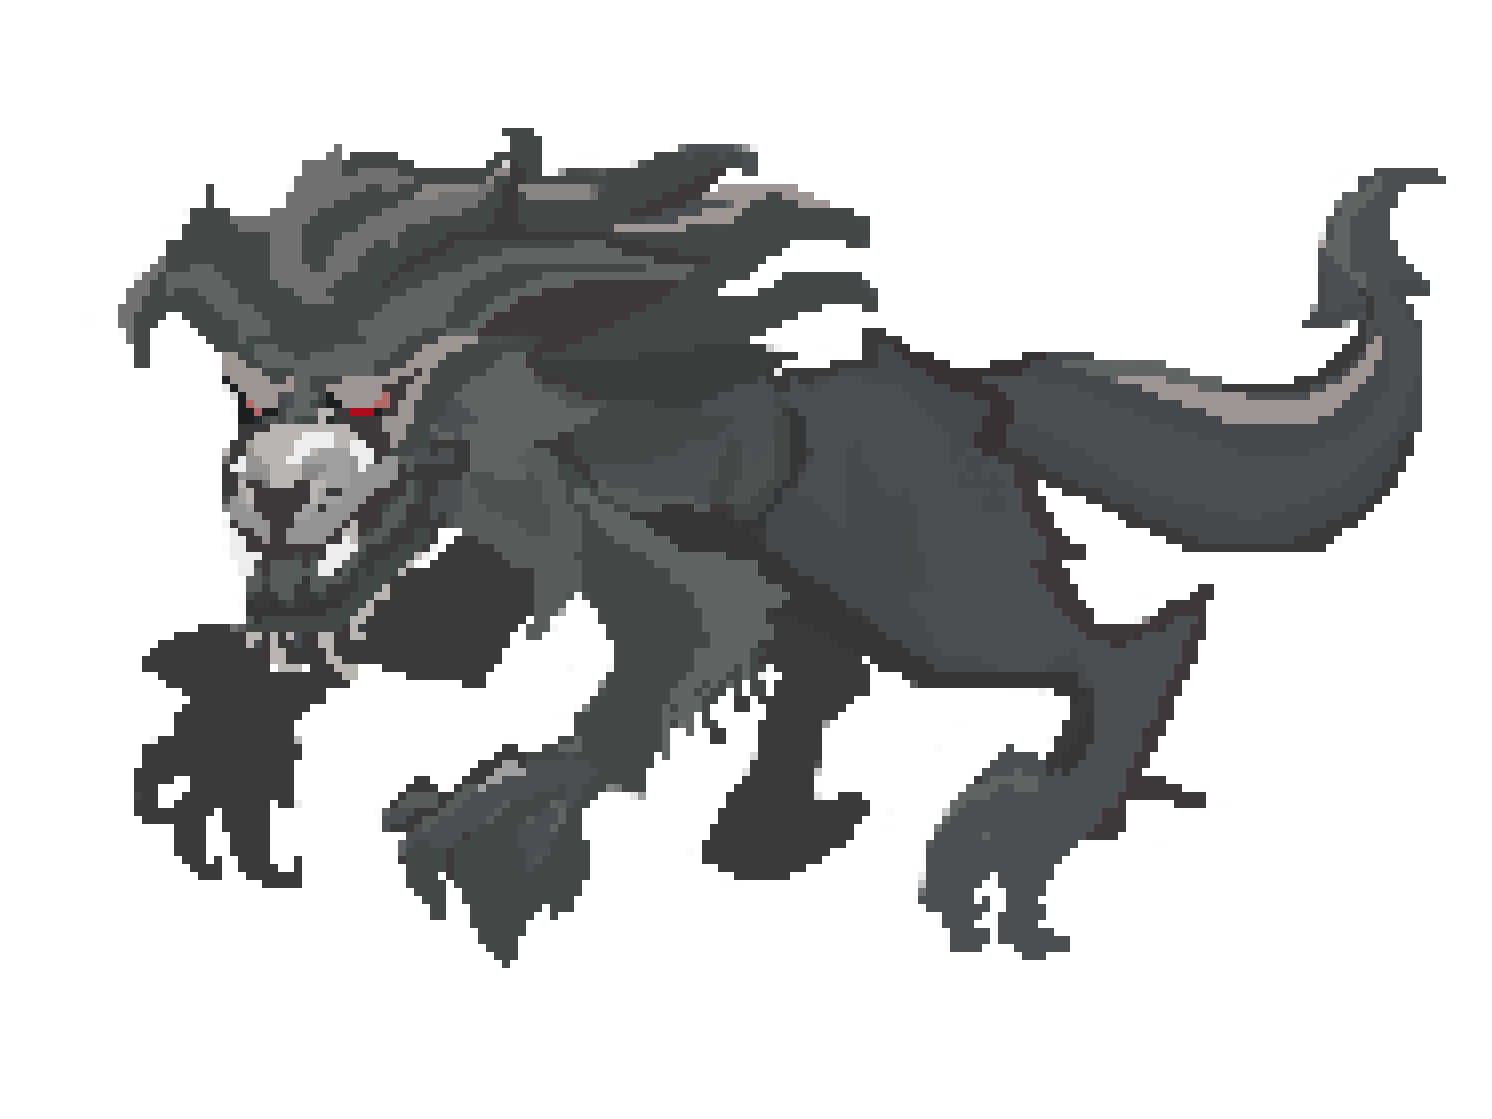
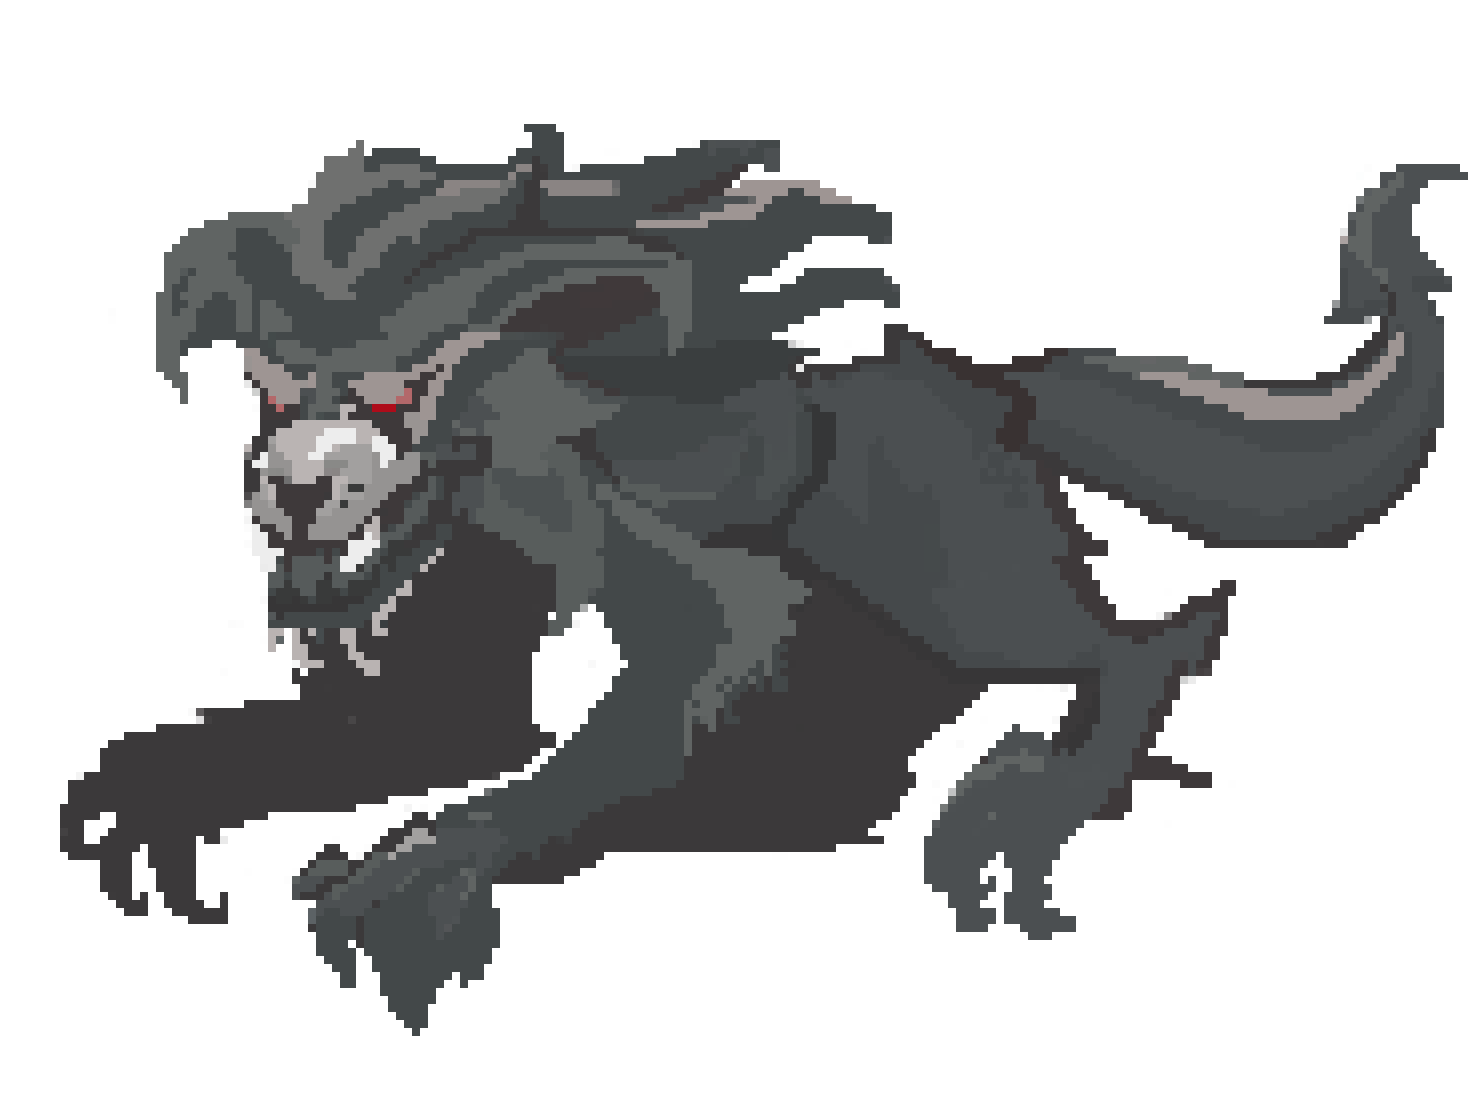
added new animations, fixed cleric reviving teammates on ability, added ui for revive, revive character not longer makes players stuck"

diff --git a/client/Window.cpp b/client/Window.cpp
@@ -613,6 +613,31 @@ void Window::displayCallback(GLFWwindow* window)
 			glClear(GL_DEPTH_BUFFER_BIT);
 			cursor->draw();
 		}
+		
+
+		// Checks if the hunter is near another dead hunter
+		if(client->getId() != 3 && clientChar->getState() != spectating) {
+			for(int i = 0; i < PLAYER_NUM - 1; i++) {
+				if(i == client->getId()) continue;
+
+				// If the other player's hp is <= 0, we can revive them.
+				if (chars[i]->getHp() <= 0 && glm::distance(clientChar->pos, chars[i]->pos) <= REVIVE_DISTANCE) {
+					time_t currTime = clock();
+					float deathTimeDiff = (float) (currTime - chars[i]->getDeathTime()) / CLOCKS_PER_SEC * 1000;
+					
+					// Revivable
+					if(deathTimeDiff > REVIVE_TIME_INTERVAL) {
+						std::string revivalText = "Press F to revive Player " + std::to_string(i);
+						guiManager->drawCenterText(revivalText, width, height);
+
+					// not revivable
+					} else {
+						std::string revivalText = "Wait " + std::to_string(deathTimeDiff / 1000) + " before reviving Player " + std::to_string(i);
+						guiManager->drawCenterText(revivalText, width, height);
+					}
+				}
+			}
+		}
 
 	} 
 
@@ -870,21 +895,25 @@ void Window::handleRoleClaim(GameUpdate update) {
 		case FIGHTER:
 			chars[update.id] = playerTypeToCharacterMap[FIGHTER];
 			chars[update.id]->moveTo(glm::vec3(SPAWN_POSITIONS[update.id][0], 2.f, SPAWN_POSITIONS[update.id][1]));
+			chars[update.id]->setHp(FIGHTER_MAX_HP);
 			break;
 
 		case MAGE:
 			chars[update.id] = playerTypeToCharacterMap[MAGE];
 			chars[update.id]->moveTo(glm::vec3(SPAWN_POSITIONS[update.id][0], 1.5f, SPAWN_POSITIONS[update.id][1]));
+			chars[update.id]->setHp(MAGE_MAX_HP);
 			break;
 
 		case CLERIC:
 			chars[update.id] = playerTypeToCharacterMap[CLERIC];
 			chars[update.id]->moveTo(glm::vec3(SPAWN_POSITIONS[update.id][0], 2.f, SPAWN_POSITIONS[update.id][1]));
+			chars[update.id]->setHp(CLERIC_MAX_HP);
 			break;
 
 		case ROGUE:
 			chars[update.id] = playerTypeToCharacterMap[ROGUE];
 			chars[update.id]->moveTo(glm::vec3(SPAWN_POSITIONS[update.id][0], 2.f, SPAWN_POSITIONS[update.id][1]));
+			chars[update.id]->setHp(ROGUE_MAX_HP);
 			break;
 	}
 
@@ -916,7 +945,11 @@ void Window::handleUpdate(GameUpdate update) {
 				guiManager->healthBar->decrementHp(update.damageTaken);
 				guiManager->healthBar->flashHealthBar();
 			}
-			chars[update.id]->flashDamage();
+			chars[update.id]->decrementHp(update.damageTaken);
+
+			if(chars[update.id]->getHp() >= 0) {
+				chars[update.id]->flashDamage();
+			}
 
 			auto now = std::chrono::steady_clock::now();
     		std::chrono::duration<float> duration = now - lastCombatMusicPlayTime;
@@ -941,6 +974,7 @@ void Window::handleUpdate(GameUpdate update) {
 				guiManager->healthBar->incrementHp(update.healAmount);
 				audioProgram->playAudioWithoutLooping(HEALTH_PICKUP_SOUND);
 			}
+			chars[update.id]->incrementHp(update.healAmount);
 			break;
 		case SAFE_REGION_UPDATE:
 			guiManager->miniMap->safeRegionX = update.playerPos.x;
@@ -1027,6 +1061,10 @@ void Window::handleUpdate(GameUpdate update) {
 		case PLAYER_REVIVE:
 			printf("process player's revival signal duolan");
 			chars[update.id]->setTransparentAlpha(1.f);
+			chars[update.id]->incrementHp(update.healAmount);
+			if(update.id == client->getId()) {
+				guiManager->healthBar->incrementHp(update.healAmount);
+			}
 			break;
 		case GAME_STARTED:
 			Window::gameStarted = true;
@@ -1086,6 +1124,7 @@ void Window::handleUpdate(GameUpdate update) {
 			if(update.id == client->getId()) {
 				guiManager->healthBar->incrementHp(update.healAmount);
 			}
+			chars[update.id]->incrementHp(update.healAmount);
             removeObj(update.objectiveID);
             break;
         case EVO_OBJECTIVE_TAKEN:

diff --git a/common/game/GamePlayer.cpp b/common/game/GamePlayer.cpp
@@ -443,6 +443,47 @@ void GamePlayer::interact(Game* game) {
     printf("Overridden Method failed.\n");
 }
 
+PlayerPosition GamePlayer::bfsSearchNonCollidingPosition(Game* game) {
+    PlayerPosition newPosition = this->position;
+    std::queue<GridPosition> positionQueue;
+    std::vector<GridPosition> used;
+    while(this->isCollidingObstacle(game, newPosition) || this->isCollidingPlayer(game, newPosition)) {
+        // Gridposition used instead of player position because floats might mess up the calculations
+        GridPosition moveRight = {(int) (newPosition.x + newPosition.width), (int) (newPosition.y)};
+        GridPosition moveLeft = {(int) (newPosition.x - newPosition.width), (int) (newPosition.y)};
+        GridPosition moveUp = {(int) (newPosition.x), (int) (newPosition.y - newPosition.height)};
+        GridPosition moveDown = {(int) (newPosition.x), (int) (newPosition.y - newPosition.height)};
+        if(std::find(used.begin(), used.end(), moveRight) == used.end()) {
+            positionQueue.push(moveRight);
+            used.push_back(moveRight);
+        }
+        if(std::find(used.begin(), used.end(), moveRight) == used.end()) {
+            positionQueue.push(moveRight);
+            used.push_back(moveRight);
+        }
+        if(std::find(used.begin(), used.end(), moveLeft) == used.end()) {
+            positionQueue.push(moveLeft);
+            used.push_back(moveLeft);
+        }
+        if(std::find(used.begin(), used.end(), moveUp) == used.end()) {
+            positionQueue.push(moveUp);
+            used.push_back(moveUp);
+        }
+        if(std::find(used.begin(), used.end(), moveDown) == used.end()) {
+            positionQueue.push(moveDown);
+            used.push_back(moveDown);
+        }
+        if(!positionQueue.empty()) {
+            GridPosition position = positionQueue.front();
+            newPosition.x = position.x;
+            newPosition.y = position.y;
+            positionQueue.pop();
+        }
+        printf("%d, %d\n", position.x, position.y);
+    }
+    return newPosition;
+}
+
 // Will revive a dead hunter
 void GamePlayer::revive(Game* game) {
 
@@ -471,6 +512,23 @@ void GamePlayer::revive(Game* game) {
                 if (!canAttack(game->players[i])) {
                     int maxHp = game->players[i]->getMaxHp();
                     game->players[i]->hpIncrement(maxHp/2);
+
+                    // if the current player is colliding with the revived player, just move it elsewhere.
+                    if(this->isCollidingPlayer(game, this->position)) {
+                        PlayerPosition newPosition = bfsSearchNonCollidingPosition(game);
+                        
+                        // push update onto queue for clients to know that a player has been unstuck
+                        GameUpdate gameUpdate;
+                        gameUpdate.id = this->id;
+                        gameUpdate.updateType = PLAYER_MOVE;
+                        gameUpdate.floatDeltaX = newPosition.x - position.x;
+                        gameUpdate.floatDeltaY = newPosition.y - position.y;
+                        gameUpdate.direction = getFaceDirection();
+                        game->addUpdate(gameUpdate);
+
+                        // Move to the new position
+                        position = newPosition;
+                    }
 
                     // queue this update to be sent to other players
                     GameUpdate gameUpdate;

diff --git a/common/game/Monster.cpp b/common/game/Monster.cpp
@@ -155,14 +155,19 @@ void Monster::updateEvo(Game* game, float evoLevel) {
     // For now update the attack damage of the monster, maybe speed another time?
     if (evoLevel >= MONSTER_FIFTH_STAGE_THRESHOLD) {
         setAttackDamage(MONSTER_ATTACK_DAMAGE + 5);
+        setMaxSpeed(MONSTER_MAX_SPEED + 0.25);
     } else if (evoLevel >= MONSTER_FOURTH_STAGE_THRESHOLD) {
         setAttackDamage(MONSTER_ATTACK_DAMAGE + 4);
+        setMaxSpeed(MONSTER_MAX_SPEED + 0.2);
     } else if (evoLevel >= MONSTER_THIRD_STAGE_THRESHOLD) {
         setAttackDamage(MONSTER_ATTACK_DAMAGE + 3);
+        setMaxSpeed(MONSTER_MAX_SPEED + 0.15);
     } else if (evoLevel >= MONSTER_SECOND_STAGE_THRESHOLD) {
         setAttackDamage(MONSTER_ATTACK_DAMAGE + 2);
+        setMaxSpeed(MONSTER_MAX_SPEED + 0.1);
     } else if (evoLevel >= MONSTER_FIRST_STAGE_THRESHOLD) {
         setAttackDamage(MONSTER_ATTACK_DAMAGE + 1);
+        setMaxSpeed(MONSTER_MAX_SPEED + 0.05);
     
     // Start counting from zero.
     } else if (evoLevel >= 0.f) {
@@ -175,6 +180,7 @@ void Monster::updateEvo(Game* game, float evoLevel) {
     }
 
     // Checks if the evo has changed from one level to the next (int's truncate the decimal values)
+    // Also send update if evo differs by 0.1
     if(abs((int) evoLevel - (int) this->evo) >= 1 || fabs(evoLevel - clientSideEvo) > 0.1f) {
         GameUpdate evoUpdate;
         evoUpdate.updateType = MONSTER_EVO_UP;

diff --git a/client/Character.cpp b/client/Character.cpp
@@ -70,6 +70,7 @@ Character::Character(string fileName, glm::mat4* p, glm::mat4* v, glm::vec3* vPo
 	isVisible = true;
 	lastDamageFlash = currTime;
 	damageFlashUntil = currTime;
+	deathTime = currTime; 
 
 	setSaturationLevel(1.0f);
 	setRedSaturationLevel(1.0f);
@@ -527,4 +528,30 @@ void Character::setGreenSaturationLevel(float greenSat) {
 
 void Character::setTransparentAlpha(float transAlpha) {
 	transparentAlpha = transAlpha;
+}
+
+int Character::getHp() {
+	return hp;
+}
+
+void Character::setHp(int newHp) {
+	hp = newHp;
+}
+
+void Character::decrementHp(int damage) {
+	if(hp == 0) {
+		return;
+	}
+
+	hp = std::max(0, hp - damage);
+	if(hp == 0) {
+		deathTime = clock();
+	}
+}
+void Character::incrementHp(int heal) {
+	hp = hp + heal;
+}
+
+time_t Character::getDeathTime() {
+	return deathTime;
 }

diff --git a/common/game/GameConstants.h b/common/game/GameConstants.h
@@ -52,11 +52,11 @@
 #define MONSTER_MAX_HP 1000
 
 // Attack Harm Constants
-#define FIGHTER_ATTACK_DAMAGE 2
-#define MAGE_ATTACK_DAMAGE 1.5
-#define CLERIC_ATTACK_DAMAGE 1
+#define FIGHTER_ATTACK_DAMAGE 5
+#define MAGE_ATTACK_DAMAGE 2
+#define CLERIC_ATTACK_DAMAGE 2
 #define ROGUE_ATTACK_DAMAGE 2
-#define MONSTER_ATTACK_DAMAGE 10
+#define MONSTER_ATTACK_DAMAGE 5
 
 // Attack Rate Constants
 #define FIGHTER_ATTACK_TIME_INTERVAL 500 // 0.5s = 500 ms
@@ -104,7 +104,7 @@
 #define ROGUE_ACCELERATION 0.05
 #define ROGUE_MAX_SPEED .8
 #define MONSTER_ACCELERATION 0.05
-#define MONSTER_MAX_SPEED .8
+#define MONSTER_MAX_SPEED .7
 
 
 

diff --git a/client/Character.h b/client/Character.h
@@ -93,6 +93,10 @@ private:
 	time_t lastDamageFlash;
 	time_t damageFlashUntil;
 
+	// used to determine revive UI and maybe other stuff in the future
+	int hp;
+	time_t deathTime;
+
 public:
 	//character specific status such as positions, stats etc
 
@@ -130,6 +134,12 @@ public:
 	void setRedSaturationLevel(float redSat);
 	void setGreenSaturationLevel(float greenSat);
 	void setTransparentAlpha(float transAlpha);
+
+	int getHp();
+	void setHp(int newHp);
+	void decrementHp(int damage);
+	void incrementHp(int heal);
+	long long getDeathTime();
 };
 
 #endif

diff --git a/common/game/Cleric.cpp b/common/game/Cleric.cpp
@@ -98,7 +98,7 @@ void Cleric::uniqueAttack(Game* game, float angle) {
         // if one box is above the other
         if (p1ULY >= p2BRY || p2ULY >= p1BRY) continue;
 
-        if (!canAttack(game->players[i])) {
+        if (!canAttack(game->players[i]) && game->players[i]->getHp() > 0) {
             int oldHp = game->players[i]->getHp();
             game->players[i]->hpIncrement(HEALING_AURA_HEALING_AMOUNT);
             int incAmount = game->players[i]->getHp() - oldHp;

diff --git a/common/game/GamePlayer.h b/common/game/GamePlayer.h
@@ -10,6 +10,11 @@
 #include "Evolve.h"
 #include "Healing.h"
 
+// used for bfs search around the player
+#include <queue>
+#include <vector>
+
+
 // A GamePlayer's Bouding Box looks like
 //          width
 //     --------------
@@ -100,6 +105,8 @@ public:
     int getID();
 
     void spectate(Game* game, UPDATE_TYPE update);
+
+    PlayerPosition bfsSearchNonCollidingPosition(Game*);
 };
 
 #endif

diff --git a/client/Main.cpp b/client/Main.cpp
@@ -65,7 +65,7 @@ int main(int argc, char* argv[])
 	AudioProgram* audioProgram = new AudioProgram();
 
 	// Title Screen:
-	GLFWwindow* titleWindow = TitleWindow::createWindow(800, 600, audioProgram);
+	GLFWwindow* titleWindow = TitleWindow::createWindow(1200, 900, audioProgram);
 
 	if (!titleWindow) exit(EXIT_FAILURE);
 

diff --git a/common/game/GridComponent.h b/common/game/GridComponent.h
@@ -5,6 +5,10 @@
 struct GridPosition {
     int x;
     int y;
+
+    bool operator ==(const GridPosition& other) const{
+        return x == other.x && y == other.y;
+    }
 }; 
 typedef GridPosition GridPosition;
 
